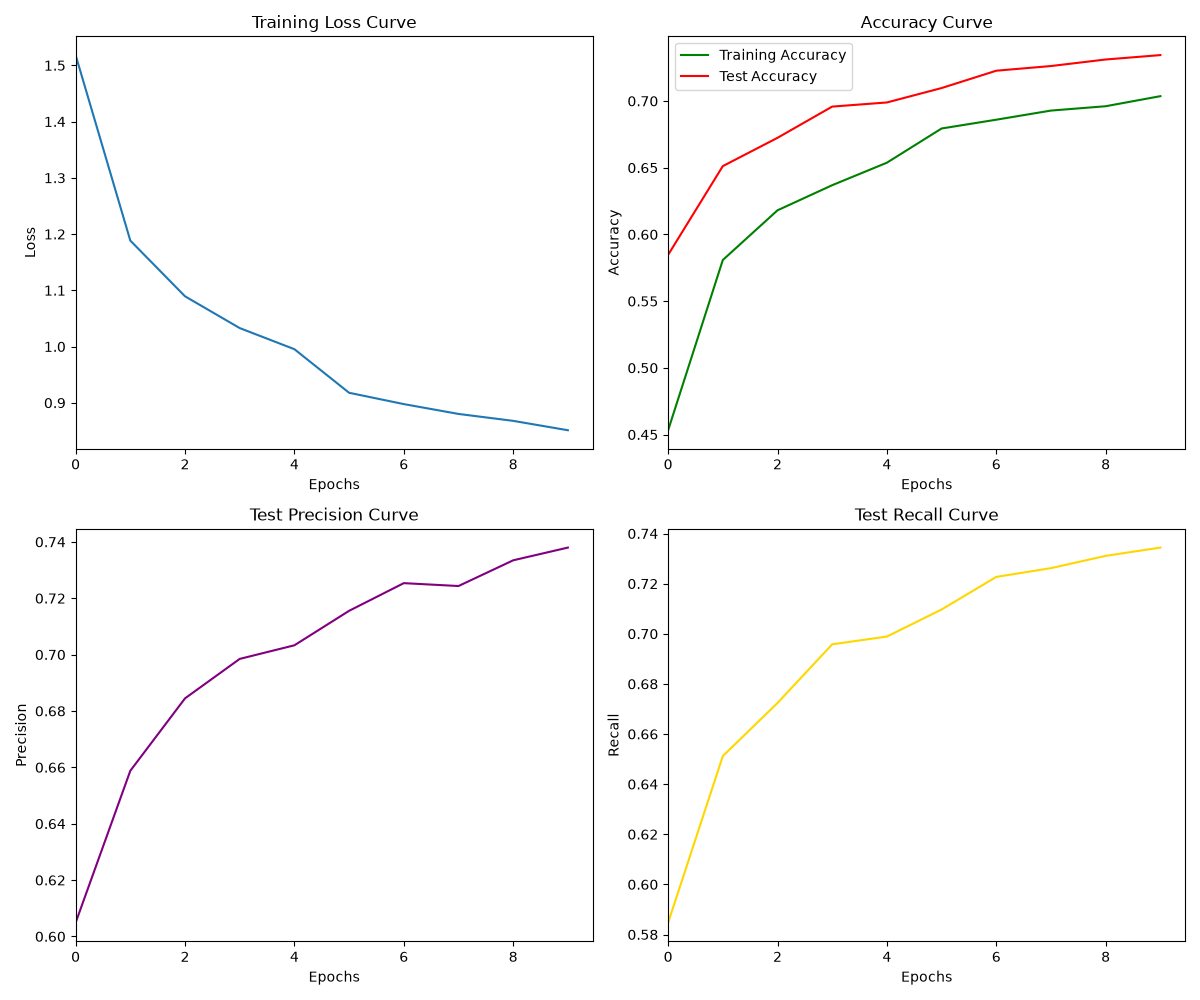
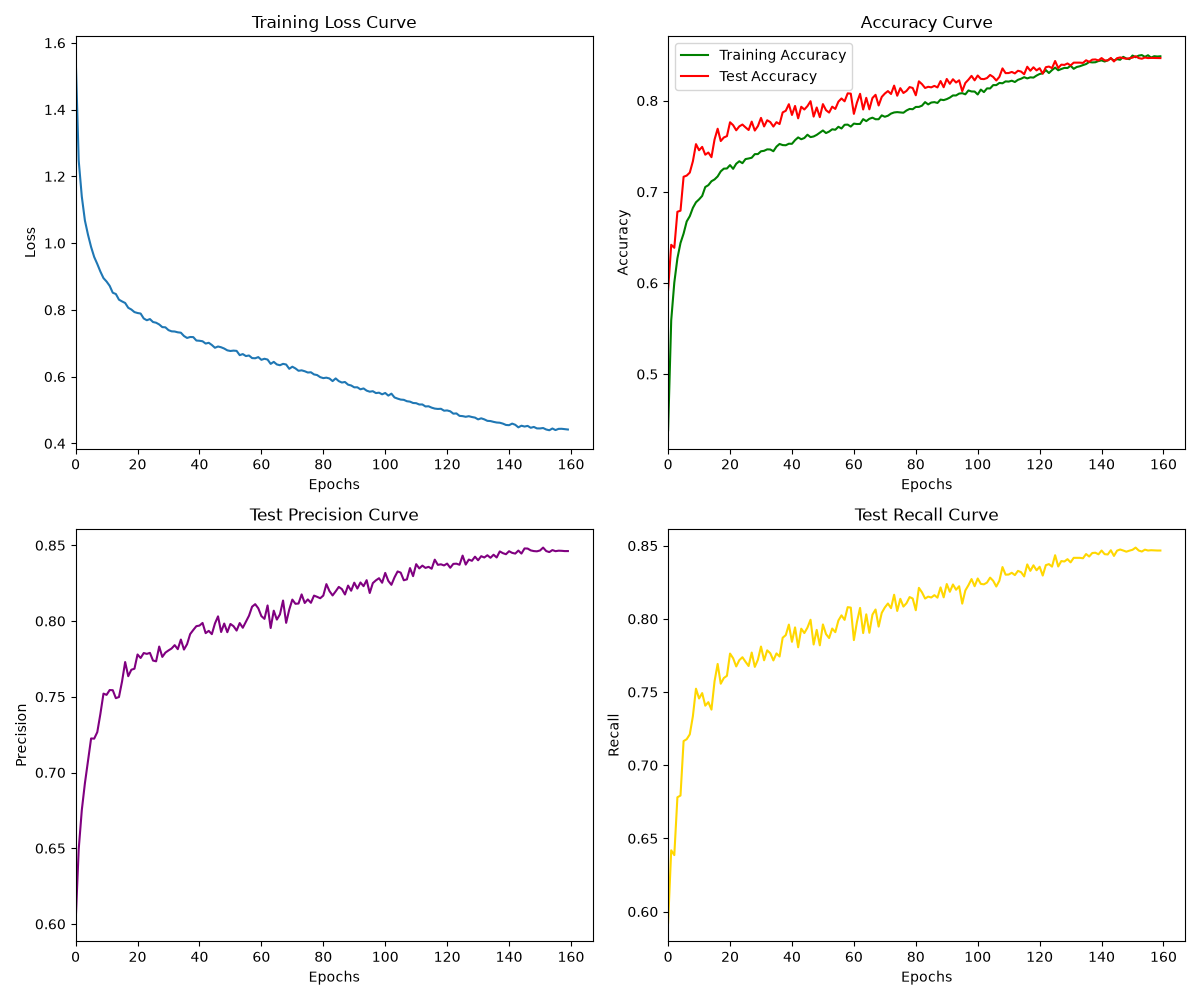
更新

diff --git a/scripts/train.py b/scripts/train.py
@@ -45,8 +45,13 @@ def main():
     criterion = get_loss_fn()
     optimizer = optim.Adam(model.parameters(), lr=lr)
 
-    from torch.optim.lr_scheduler import StepLR
-    scheduler = StepLR(optimizer, step_size=5, gamma=0.5)
+    # 优化器
+    optimizer = torch.optim.SGD(model.parameters(), lr=1e-2, momentum=0.9, weight_decay=5e-4)
+
+    # 学习率调度器
+    from torch.optim.lr_scheduler import CosineAnnealingLR
+    scheduler = CosineAnnealingLR(optimizer, T_max=160) 
+
 
     train_acc_list = []
     val_acc_list = []
